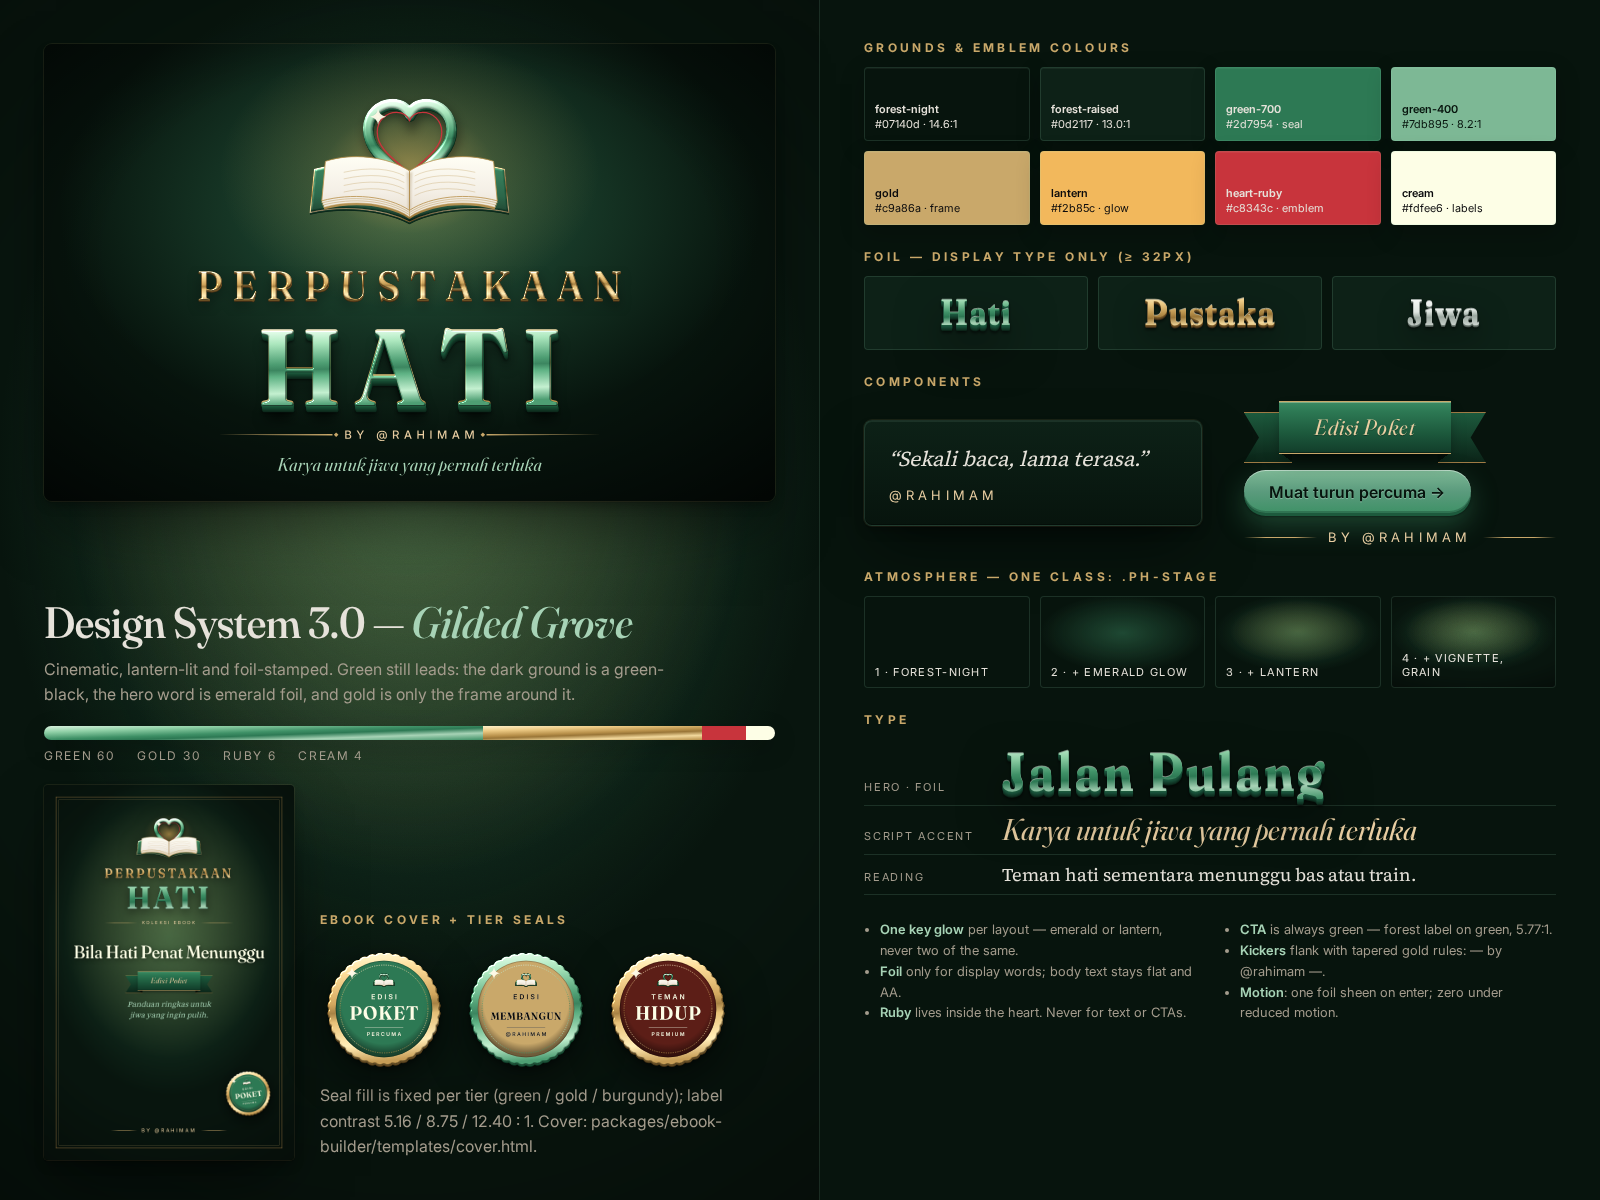
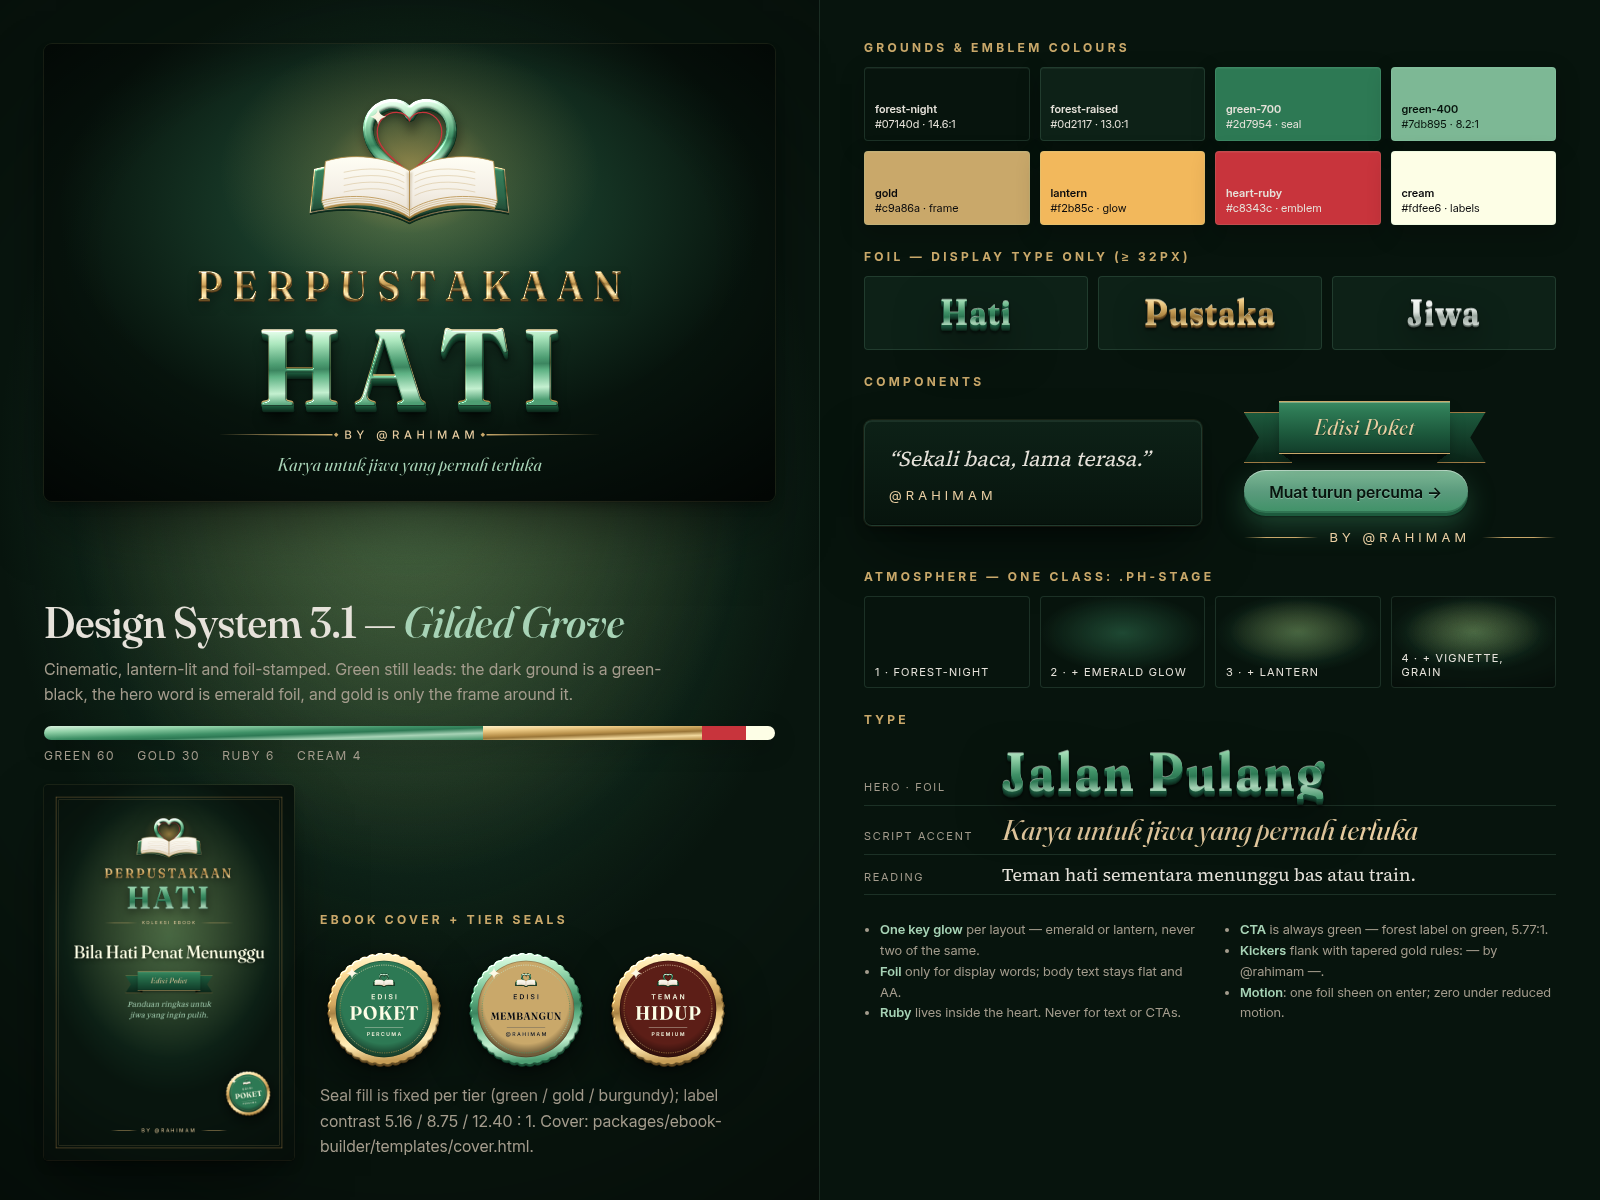
chore(brand): finish DS 3.1 follow-ups: asset headers, showcase render, rendered-output tests (#13)
- SVG asset headers and build-logos.py comments now say 3.1
- re-render design-system-3-1.png from the 3.1 sheet
- add headless-Chrome render tests for the three Threads templates
- add guideline token snapshot vs design-tokens.css sync tests
- refresh baseline

diff --git a/packages/brand-tools/tests/test_rendered_templates.py b/packages/brand-tools/tests/test_rendered_templates.py
@@ -1,0 +1,144 @@
+"""Rendered-output checks for the Threads templates, plus token sync.
+
+Static tests read the HTML. These tests render each template in headless
+Chrome and look at the real pixels:
+
+  * the screenshot has the template's declared size
+  * the picture is not blank
+  * the average colour is green-led (green is the dominant channel)
+  * gold is present (frame, rules, bylines)
+
+A second group keeps the copied token snapshot in doop-guideline.md aligned
+with docs/brand/design-tokens.css, so the two cannot drift apart silently.
+
+Skipped automatically when Chrome or Pillow is not available.
+
+Run:
+    uv run --no-project --with pillow --with pytest pytest packages/brand-tools/tests -q
+"""
+from __future__ import annotations
+
+import re
+import shutil
+import subprocess
+from pathlib import Path
+
+import pytest
+
+ROOT = Path(__file__).resolve().parents[3]
+TEMPLATES = ROOT / "content" / "threads" / "templates"
+TOKENS = ROOT / "docs" / "brand" / "design-tokens.css"
+GUIDELINE = ROOT / "docs" / "brand" / "doop-guideline.md"
+
+CHROME = (
+    shutil.which("google-chrome")
+    or shutil.which("chromium")
+    or shutil.which("chromium-browser")
+    or shutil.which("chrome-headless-shell")
+)
+
+RENDERED = {
+    "quote-card.html": (1080, 1350),
+    "quote-card-b.html": (1080, 1350),
+    "carousel.html": (1080, 1080),
+}
+
+
+def render(template: Path, size: tuple[int, int], out: Path) -> Path:
+    subprocess.run(
+        [
+            CHROME,
+            "--headless=new",
+            "--no-sandbox",
+            "--disable-gpu",
+            "--hide-scrollbars",
+            "--allow-file-access-from-files",
+            f"--window-size={size[0]},{size[1]}",
+            "--virtual-time-budget=5000",
+            f"--screenshot={out}",
+            template.as_uri(),
+        ],
+        check=True,
+        capture_output=True,
+        timeout=90,
+    )
+    return out
+
+
+@pytest.fixture(scope="module")
+def pil():
+    return pytest.importorskip("PIL.Image")
+
+
+ImageStat = pytest.importorskip("PIL.ImageStat")
+
+
+@pytest.fixture(params=sorted(RENDERED), ids=lambda n: Path(n).stem, scope="module")
+def shot(request, pil, tmp_path_factory):
+    if CHROME is None:
+        pytest.skip("no headless Chrome available")
+    name = request.param
+    out = tmp_path_factory.mktemp("render") / f"{Path(name).stem}.png"
+    render(TEMPLATES / name, RENDERED[name], out)
+    return name, pil.open(out).convert("RGB")
+
+
+def test_render_has_declared_size(shot) -> None:
+    name, img = shot
+    assert img.size == RENDERED[name]
+
+
+def test_render_is_not_blank(shot) -> None:
+    _, img = shot
+    low, high = img.convert("L").getextrema()
+    assert high - low > 80, "render looks blank or flat"
+
+
+def test_render_is_green_led(shot) -> None:
+    _, img = shot
+    r, g, b = ImageStat.Stat(img).mean
+    assert g > r and g > b, f"mean colour ({r:.0f},{g:.0f},{b:.0f}) is not green-led"
+
+
+def test_render_shows_gold(shot) -> None:
+    _, img = shot
+    small = img.resize((img.width // 4, img.height // 4))
+    gold = sum(
+        1
+        for r, g, b in small.get_flattened_data()
+        if r > 150 and 120 < g < 215 and 60 < b < 170 and r > g > b
+    )
+    assert gold > 40, "no gold found in the render"
+
+
+# --- token sync -----------------------------------------------------------
+
+
+def custom_props(css: str) -> dict[str, str]:
+    css = re.sub(r"/\*.*?\*/", "", css, flags=re.S)
+    props: dict[str, str] = {}
+    for name, value in re.findall(r"(--[a-z0-9-]+)\s*:\s*([^;]+);", css):
+        props[name] = re.sub(r"(?<![\d])\.(\d)", r"0.\1", re.sub(r"\s+", "", value).lower())
+    return props
+
+
+def test_guideline_tokens_match_design_tokens() -> None:
+    block = re.search(r"```css\s*:root\{(.*?)\n\}", GUIDELINE.read_text(), re.S)
+    assert block, "doop-guideline.md has no :root token snapshot"
+    snapshot = custom_props(block.group(1))
+    source = custom_props(TOKENS.read_text())
+    assert snapshot, "token snapshot is empty"
+    drift = {
+        name: (value, source[name])
+        for name, value in snapshot.items()
+        if name in source and not name.startswith("--font-") and source[name] != value
+    }
+    assert not drift, f"guideline token snapshot drifted from design-tokens.css: {drift}"
+
+
+def test_guideline_tokens_exist_in_design_tokens() -> None:
+    block = re.search(r"```css\s*:root\{(.*?)\n\}", GUIDELINE.read_text(), re.S)
+    snapshot = custom_props(block.group(1))
+    source = custom_props(TOKENS.read_text())
+    missing = [n for n in snapshot if n not in source and not n.startswith("--font-")]
+    assert not missing, f"snapshot tokens absent from design-tokens.css: {missing}"

diff --git a/packages/brand-tools/build-logos.py b/packages/brand-tools/build-logos.py
@@ -112,7 +112,7 @@ def build_cop_stamp(fraunces: TTFont, inter: TTFont) -> None:
 
 
 # --------------------------------------------------------------------------
-# Design System 3.0 "Gilded Grove" — refined type + 3D (v3.1)
+# Design System 3.1 "Gilded Grove" — refined type + 3D (v3.1)
 # --------------------------------------------------------------------------
 # v3 tokens (must match docs/brand/design-tokens.css)
 FOREST_NIGHT = "#07140d"
@@ -379,8 +379,8 @@ def flank(cx: float, y: float, gap: float, length: float, colour: str) -> str:
 def build_emblem() -> None:
     p = "phe"
     body = f"""  <!--
-    Perpustakaan Hati — book-heart emblem (Design System 3.0)
-    Source: docs/brand/visual-identity.md -> "Design System 3.0"
+    Perpustakaan Hati — book-heart emblem (Design System 3.1)
+    Source: docs/brand/visual-identity.md -> "Design System 3.1"
     An emerald-bound open book; a foil heart rises from the spine.
     3D: extruded cover board + heart tube, lighting-filter bevel, gilt
     page block, spine shadow, one glint. Transparent background.
@@ -412,8 +412,8 @@ def build_lockup_cinematic(fraunces: TTFont, fraunces_it: TTFont, inter: TTFont)
     bw = text_width(f_by, "BY @RAHIMAM", 25, 10) / 2
 
     body = f"""  <!--
-    Perpustakaan Hati — cinematic lockup (Design System 3.0 "Gilded Grove")
-    Source: docs/brand/visual-identity.md -> "Design System 3.0"
+    Perpustakaan Hati — cinematic lockup (Design System 3.1 "Gilded Grove")
+    Source: docs/brand/visual-identity.md -> "Design System 3.1"
     Green leads: forest-night ground, emerald glow, emerald-foil HATI.
     Gold frames: gold-foil PERPUSTAKAAN, gilt rules, gold byline.
     3D: 14px graded extrusion + contact shadow + ambient shadow, and a
@@ -487,7 +487,7 @@ def build_seals(fraunces: TTFont, inter: TTFont) -> list[str]:
         pbm = centred(f_lab, bottom, 24, 7, 300, 426)
         scallop = scallop_path(300, 300, 258, 40, 7)
         body = f"""  <!--
-    Perpustakaan Hati — tier seal "{top} {main}" (Design System 3.0)
+    Perpustakaan Hati — tier seal "{top} {main}" (Design System 3.1)
     Source: docs/brand/tier-naming.md (tier colour is fixed)
     3D: extruded foil rim + bevel, recessed medallion, debossed labels.
     Use: eBook covers, store cards, Threads promo cards. Min 96px wide.
@@ -535,7 +535,7 @@ def build_monogram(fraunces: TTFont, inter: TTFont) -> None:
     ph = centred(f_hero, "PH", 400, 6, 600, 690)
     wm = centred(f_lab, "PERPUSTAKAAN HATI", 42, 13, 600, 968)
     body = f"""  <!--
-    Perpustakaan Hati — compact monogram (Design System 3.0)
+    Perpustakaan Hati — compact monogram (Design System 3.1)
     Use below 48px wide (favicon, avatar) and as a small footer lockup.
     3D: 12px graded extrusion + lighting bevel on the emerald-foil PH.
   -->
